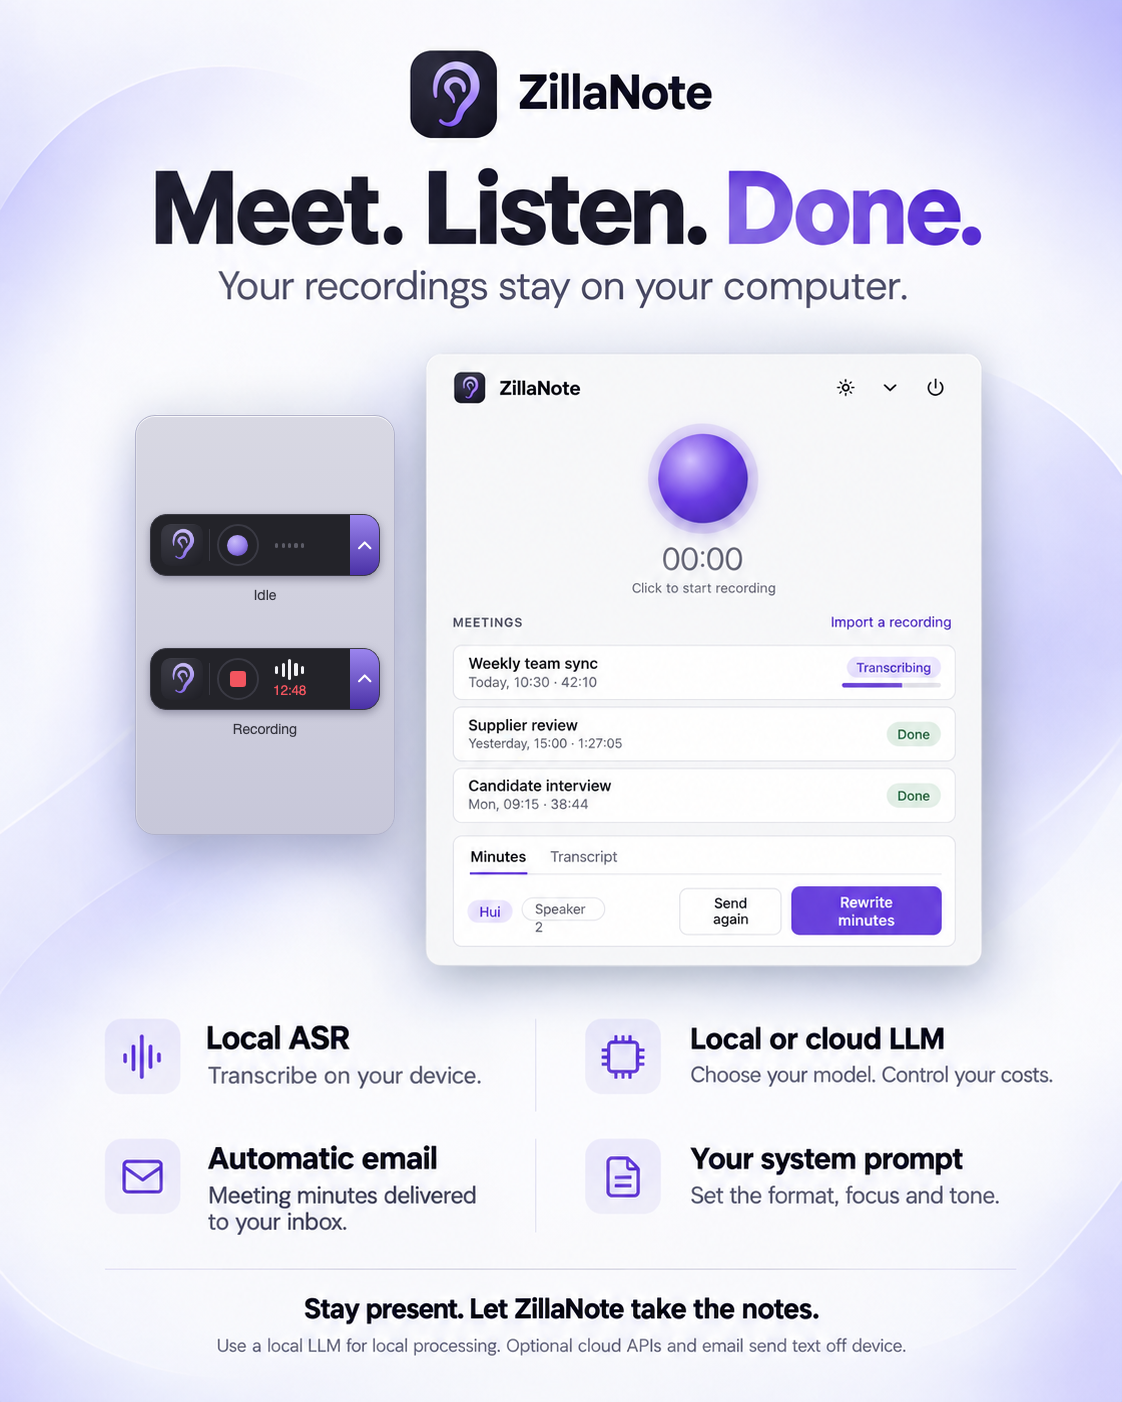
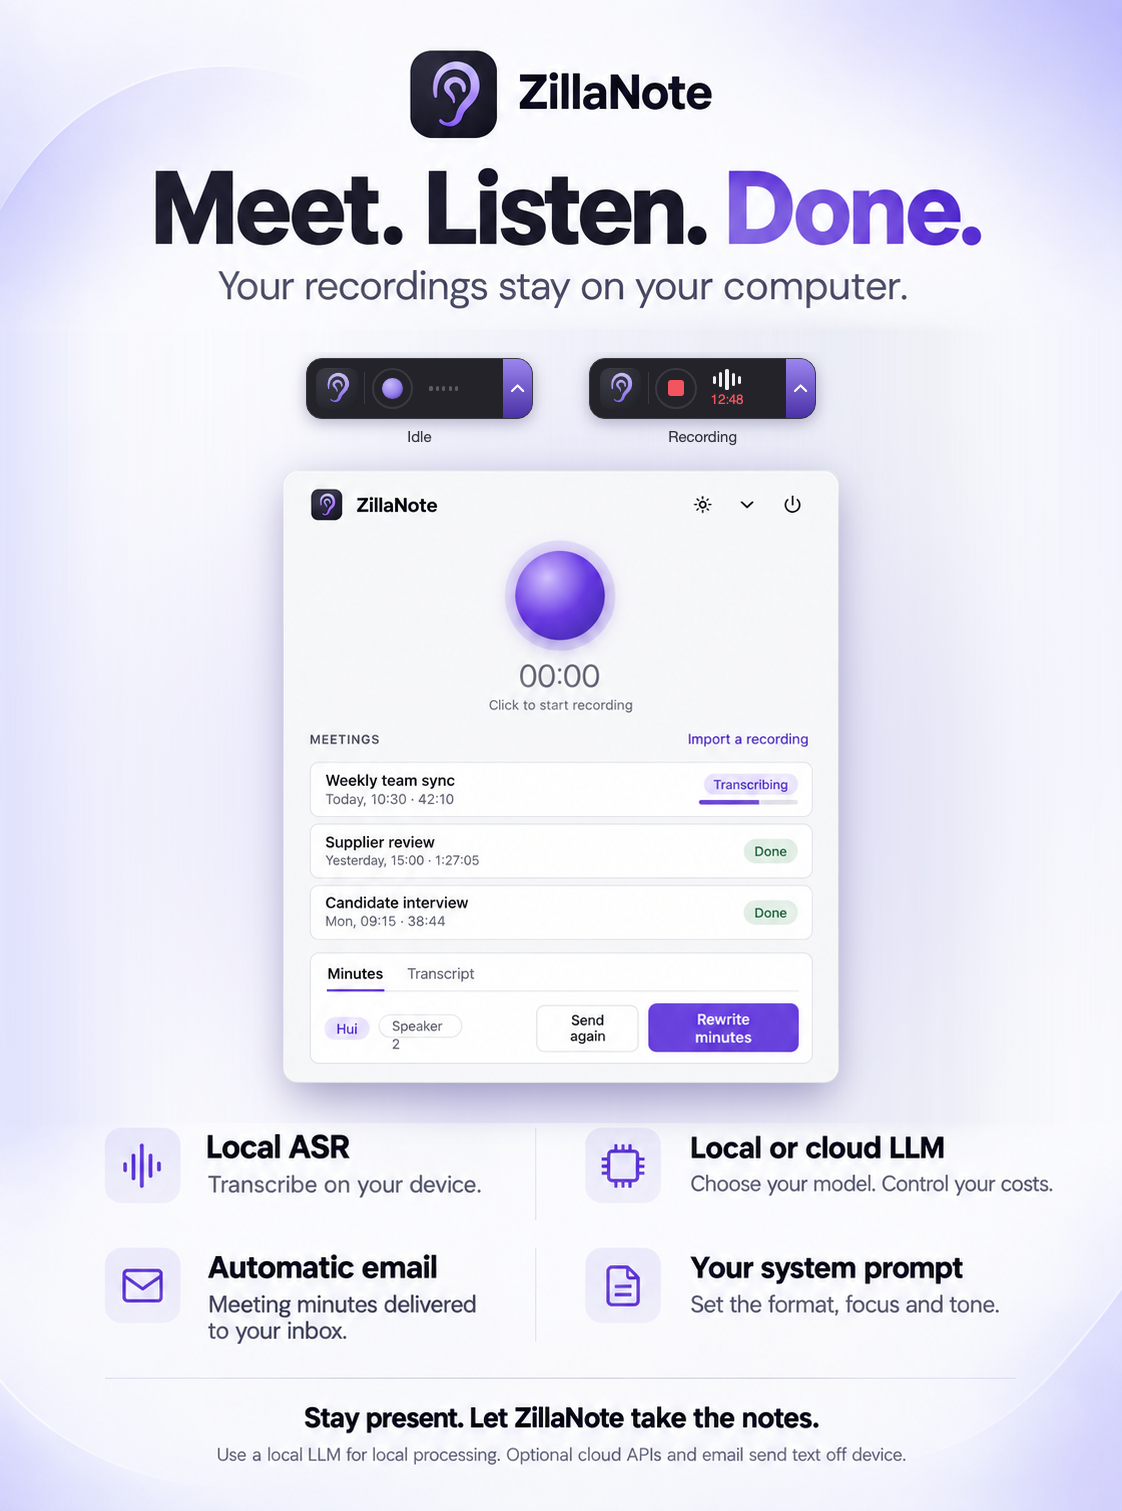
Pictures: the two bars in a row above the window
The README's picture and the website's show the idle and the recording bar side by side
above the ZillaNote window, which moves to the middle, in place of the panel beside it.
The heading and the features around them are as they were; the website's picture is taller
(914 by 795).

diff --git a/docs/index.html b/docs/index.html
@@ -262,7 +262,7 @@
       </div>
 
       <div class="shot">
-        <img src="shot.jpg" width="914" height="664"
+        <img src="shot.jpg" width="914" height="795"
              alt="The ZillaNote bar at the edge of the screen, idle and recording, next to the ZillaNote window with its record button and a list of meetings being transcribed and done.">
       </div>
     </div>
